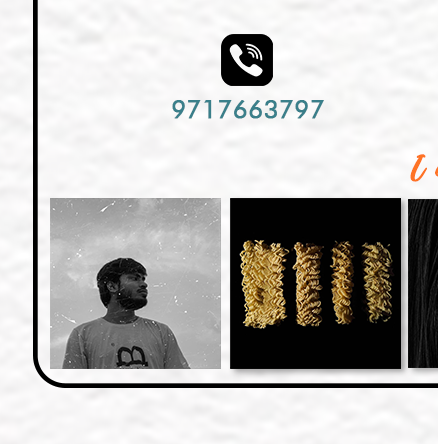
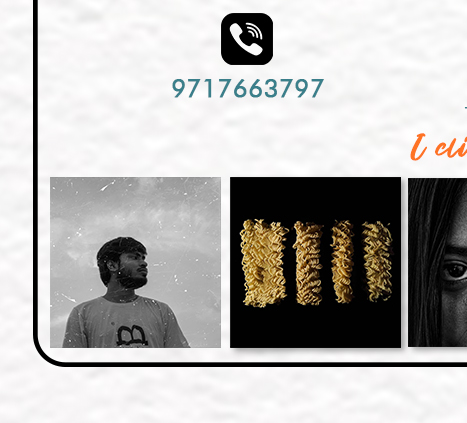
update

diff --git a/pg1.html b/pg1.html
@@ -4,24 +4,24 @@
 <meta http-equiv="Content-Type" content="text/html; charset=utf-8">
 </head>
 <body bgcolor="#FFFFFF" leftmargin="0" topmargin="0" marginwidth="0" marginheight="0">
-<!-- Save for Web Slices (Portfolio.psd) -->
+<!-- Save for Web Slices (Portfolio.jpg) -->
 <table id="Table_01" width="1080" height="1920" border="0" cellpadding="0" cellspacing="0">
 	<tr>
 		<td colspan="3">
-			<img src="images/pg1_01.png" width="1080" height="1476" alt=""></td>
+			<img src="images/pg1_01.png" width="1080" height="1497" alt=""></td>
 	</tr>
 	<tr>
 		<td rowspan="2">
-			<img src="images/pg1_02.png" width="438" height="444" alt=""></td>
+			<img src="images/pg1_02.png" width="467" height="423" alt=""></td>
 		<td>
 			<a href="https://www.instagram.com/_thewayiare_/" target="_blank">
-				<img src="images/instagram.png" width="224" height="155" border="0" alt=""></a></td>
+				<img src="images/Instagram.png" width="154" height="117" border="0" alt=""></a></td>
 		<td rowspan="2">
-			<img src="images/pg1_04.png" width="418" height="444" alt=""></td>
+			<img src="images/pg1_04.png" width="459" height="423" alt=""></td>
 	</tr>
 	<tr>
 		<td>
-			<img src="images/pg1_05.png" width="224" height="289" alt=""></td>
+			<img src="images/pg1_05.png" width="154" height="306" alt=""></td>
 	</tr>
 </table>
 <!-- End Save for Web Slices -->
